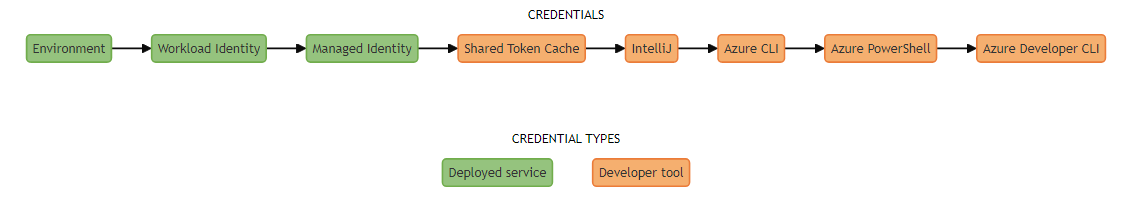
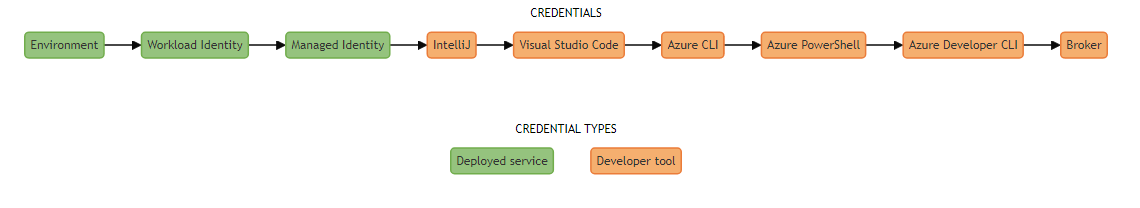
Update Java credential chains doc for 1.17.0 release

diff --git a/articles/java/sdk/authentication/credential-chains.md b/articles/java/sdk/authentication/credential-chains.md
@@ -1,7 +1,7 @@
 ---
 title: 'Credential chains in the Azure Identity library for Java'
 description: 'This article describes the DefaultAzureCredential and ChainedTokenCredential classes in the Azure Identity library.'
-ms.date: 06/02/2025
+ms.date: 08/05/2025
 ms.topic: article
 author: KarlErickson
 ms.author: karler
@@ -70,20 +70,24 @@ The order in which `DefaultAzureCredential` attempts credentials follows.
 | 1     | [Environment][env-cred]         | Reads a collection of [environment variables][env-vars] to determine if an application service principal (application user) is configured for the app. If so, `DefaultAzureCredential` uses these values to authenticate the app to Azure. This method is most often used in server environments but can also be used when developing locally. |
 | 2     | [Workload Identity][wi-cred]    | If the app is deployed to an Azure host with Workload Identity enabled, authenticate that account.                                                                                                                                                                                                                                 |
 | 3     | [Managed Identity][mi-cred]     | If the app is deployed to an Azure host with Managed Identity enabled, authenticate the app to Azure using that Managed Identity.                                                                                                                                                                                                  |
-| 4     | [Shared Token Cache][stc-cred]  | If the developer authenticated to Azure by logging into Visual Studio, authenticate the app to Azure using that same account. (Windows only.)                                                                                                                                                                                      |
-| 5     | [IntelliJ][ij-cred]             | If the developer authenticated via Azure Toolkit for IntelliJ, authenticate that account.                                                                                                                                                                                                                                          |
+| 4     | [IntelliJ][ij-cred]             | If the developer authenticated via Azure Toolkit for IntelliJ, authenticate that account.                                                                                                                                                                                                                                          |
+| 5     | [Visual Studio Code][vsc-cred]  | If the developer authenticated via Visual Studio Code's [Azure Resources extension][vsc-ext] and the [azure-identity-broker package][broker-pkg] is installed, authenticate that account.                                                                                                                                        |
 | 6     | [Azure CLI][az-cred]            | If the developer authenticated to Azure using Azure CLI's `az login` command, authenticate the app to Azure using that same account.                                                                                                                                                                                               |
 | 7     | [Azure PowerShell][pwsh-cred]   | If the developer authenticated to Azure using Azure PowerShell's `Connect-AzAccount` cmdlet, authenticate the app to Azure using that same account.                                                                                                                                                                                |
 | 8     | [Azure Developer CLI][azd-cred] | If the developer authenticated to Azure using Azure Developer CLI's `azd auth login` command, authenticate with that account.                                                                                                                                                                                                      |
+| 9     | [Broker][broker-cred]           | If the developer authenticated via a broker and the [azure-identity-broker package][broker-pkg] is installed, authenticate with that account using a broker-enabled instance of `InteractiveBrowserCredential`.                                                                                                                                                                                      |
 
 [env-cred]: /java/api/com.azure.identity.environmentcredential
 [wi-cred]: /java/api/com.azure.identity.workloadidentitycredential
 [mi-cred]: /java/api/com.azure.identity.managedidentitycredential
-[stc-cred]: /java/api/com.azure.identity.sharedtokencachecredential
 [az-cred]: /java/api/com.azure.identity.azureclicredential
 [pwsh-cred]: /java/api/com.azure.identity.azurepowershellcredential
 [azd-cred]: /java/api/com.azure.identity.azuredeveloperclicredential
 [ij-cred]: /java/api/com.azure.identity.intellijcredential
+[vsc-cred]: /java/api/com.azure.identity.visualstudiocodecredential
+[broker-cred]: /java/api/com.azure.identity.interactivebrowsercredential
+[vsc-ext]: https://marketplace.visualstudio.com/items?itemName=ms-azuretools.vscode-azureresourcegroups
+[broker-pkg]: https://central.sonatype.com/artifact/com.azure/azure-identity-broker
 
 In its simplest form, you can use the parameterless version of `DefaultAzureCredential` as follows:
 
@@ -99,6 +103,10 @@ DefaultAzureCredential credential = new DefaultAzureCredentialBuilder()
 
 ### How to customize DefaultAzureCredential
 
+The following sections describe strategies for controlling which credentials are included in the chain.
+
+#### Exclude a credential type category
+
 To exclude all `Developer tool` or `Deployed service` credentials, set environment variable `AZURE_TOKEN_CREDENTIALS` to `prod` or `dev`, respectively. When a value of `prod` is used, the underlying credential chain looks as follows:
 
 :::image type="content" source="../media/mermaidjs/default-azure-credential-environment-variable-production.svg" alt-text="Diagram that shows DefaultAzureCredential with AZURE_TOKEN_CREDENTIALS set to 'prod'.":::
@@ -109,6 +117,22 @@ When a value of `dev` is used, the chain looks as follows:
 
 > [!IMPORTANT]
 > The `AZURE_TOKEN_CREDENTIALS` environment variable is supported in `azure-identity` package versions 1.16.1 and later.
+
+#### Use a specific credential
+
+To exclude all credentials except for one, set environment variable `AZURE_TOKEN_CREDENTIALS` to the credential name. For example, you can reduce the `DefaultAzureCredential` chain to `AzureCliCredential` by setting `AZURE_TOKEN_CREDENTIALS` to `AzureCliCredential`. The string comparison is performed in a case-insensitive manner. Valid string values for the environment variable include:
+
+- `AzureCliCredential`
+- `AzureDeveloperCliCredential`
+- `AzurePowerShellCredential`
+- `EnvironmentCredential`
+- `IntelliJCredential`
+- `ManagedIdentityCredential`
+- `VisualStudioCodeCredential`
+- `WorkloadIdentityCredential`
+
+> [!IMPORTANT]
+> The `AZURE_TOKEN_CREDENTIALS` environment variable supports individual credential names in `azure-identity` package versions 1.17.0 and later.
 
 ## ChainedTokenCredential overview
 
@@ -163,14 +187,13 @@ For illustration purposes, assume the parameterless form of `DefaultAzureCredent
 [main] INFO com.azure.identity.ChainedTokenCredential - Azure Identity => Attempted credential WorkloadIdentityCredential is unavailable.
 [ForkJoinPool.commonPool-worker-1] WARN com.microsoft.aad.msal4j.ConfidentialClientApplication - [Correlation ID: aaaa0000-bb11-2222-33cc-444444dddddd] Execution of class com.microsoft.aad.msal4j.AcquireTokenByClientCredentialSupplier failed: java.util.concurrent.ExecutionException: com.azure.identity.CredentialUnavailableException: ManagedIdentityCredential authentication unavailable. Connection to IMDS endpoint cannot be established.
 [main] INFO com.azure.identity.ChainedTokenCredential - Azure Identity => Attempted credential ManagedIdentityCredential is unavailable.
-[main] INFO com.azure.identity.ChainedTokenCredential - Azure Identity => Attempted credential SharedTokenCacheCredential is unavailable.
 [main] INFO com.azure.identity.ChainedTokenCredential - Azure Identity => Attempted credential IntelliJCredential is unavailable.
 [main] INFO com.azure.identity.ChainedTokenCredential - Azure Identity => Attempted credential AzureCliCredential returns a token
 ```
 
 In the preceding output, notice that:
 
-- `EnvironmentCredential`, `WorkloadIdentityCredential`, `ManagedIdentityCredential`, `SharedTokenCacheCredential`, and `IntelliJCredential` each failed to acquire a Microsoft Entra access token, in that order.
+- `EnvironmentCredential`, `WorkloadIdentityCredential`, `ManagedIdentityCredential`, and `IntelliJCredential` each failed to acquire a Microsoft Entra access token, in that order.
 - The `AzureCliCredential.getToken` call succeeds, as indicated by the `returns a token`-suffixed entry. Since `AzureCliCredential` succeeded, no credentials beyond it were tried.
 
 <!-- LINKS -->

diff --git a/articles/java/sdk/mermaidjs/default-azure-credential-auth-flow.md b/articles/java/sdk/mermaidjs/default-azure-credential-auth-flow.md
@@ -5,7 +5,7 @@
 %%    npm i -g @mermaid-js/mermaid-cli@10.9.1
 %% 2. Run commands:
 %%    mmdc -i default-azure-credential-auth-flow.md -o ../media/mermaidjs/default-azure-credential-auth-flow-inline.svg
-%%    mmdc -i default-azure-credential-auth-flow.md -o ../media/mermaidjs/default-azure-credential-auth-flow-expanded.png -w 1156id
+%%    mmdc -i default-azure-credential-auth-flow.md -o ../media/mermaidjs/default-azure-credential-auth-flow-expanded.png -w 1156
 
 %%{
   init: {
@@ -31,11 +31,12 @@ flowchart LR;
         A(Environment):::deployed --> 
         B(Workload Identity):::deployed --> 
         C(Managed Identity):::deployed --> 
-        D(Shared Token Cache):::developer --> 
-        E(IntelliJ):::developer --> 
+        D(IntelliJ):::developer --> 
+        E(Visual Studio Code):::developer --> 
         F(Azure CLI):::developer --> 
         G(Azure PowerShell):::developer --> 
-        H(Azure Developer CLI):::developer;
+        H(Azure Developer CLI):::developer -->
+        I(Broker):::developer;
     end;
 
     %% Define styles for credential type boxes
@@ -46,9 +47,10 @@ flowchart LR;
     click A "https://learn.microsoft.com/java/api/com.azure.identity.environmentcredential?view=azure-java-stable" _blank;
     click B "https://learn.microsoft.com/java/api/com.azure.identity.workloadidentitycredential?view=azure-java-stable" _blank;
     click C "https://learn.microsoft.com/java/api/com.azure.identity.managedidentitycredential?view=azure-java-stable" _blank;
-    click D "https://learn.microsoft.com/java/api/com.azure.identity.sharedtokencachecredential?view=azure-java-stable" _blank;
-    click E "https://learn.microsoft.com/java/api/com.azure.identity.intellijcredential?view=azure-java-stable" _blank;
+    click D "https://learn.microsoft.com/java/api/com.azure.identity.intellijcredential?view=azure-java-stable" _blank;
+    click E "https://learn.microsoft.com/java/api/com.azure.identity.visualstudiocodecredential?view=azure-java-stable" _blank;
     click F "https://learn.microsoft.com/java/api/com.azure.identity.azureclicredential?view=azure-java-stable" _blank;
     click G "https://learn.microsoft.com/java/api/com.azure.identity.azurepowershellcredential?view=azure-java-stable" _blank;
     click H "https://learn.microsoft.com/java/api/com.azure.identity.azuredeveloperclicredential?view=azure-java-stable" _blank;
+    click I "https://learn.microsoft.com/java/api/com.azure.identity.interactivebrowsercredential?view=azure-java-stable" _blank;
 ```

diff --git a/articles/java/sdk/mermaidjs/default-azure-credential-environment-variable-development.md b/articles/java/sdk/mermaidjs/default-azure-credential-environment-variable-development.md
@@ -20,11 +20,12 @@ flowchart LR;
     accTitle: DefaultAzureCredential authentication flow without deployed service credentials;
     accDescr: Flowchart showing the credential chain implemented by DefaultAzureCredential when AZURE_TOKEN_CREDENTIALS is set to "dev";
 
-    D(Shared Token Cache):::developer --> 
-    E(IntelliJ):::developer --> 
+    D(IntelliJ):::developer --> 
+    E(Visual Studio Code):::developer --> 
     F(Azure CLI):::developer --> 
     G(Azure PowerShell):::developer --> 
-    H(Azure Developer CLI):::developer;
+    H(Azure Developer CLI):::developer -->
+    I(Broker):::developer;
 
     %% Define styles for credential type boxes
     classDef developer fill:#F5AF6F, stroke:#EB7C39, stroke-width:2px;
